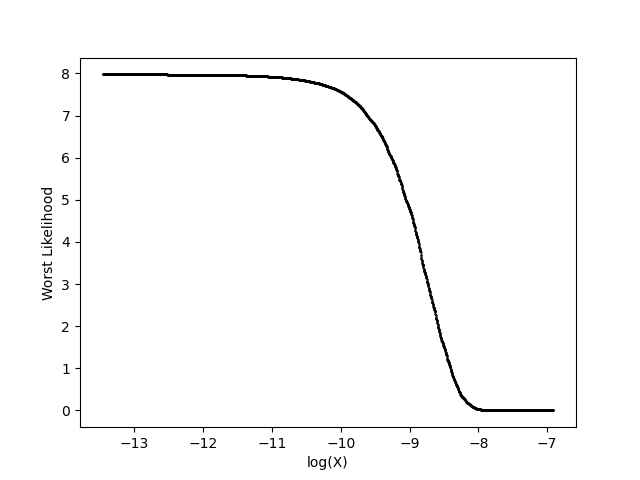
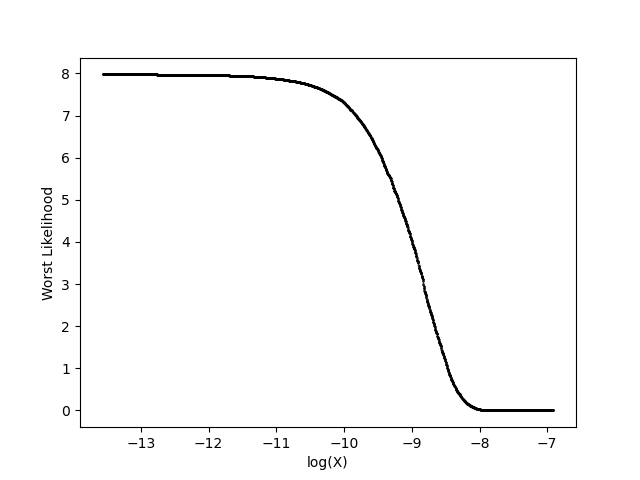
back to this morning

diff --git a/nested_sampling.py b/nested_sampling.py
@@ -84,9 +84,9 @@ def uniform_proposal(x, dim, logLmin, survivor, shrink):
     rejected = 0
     while True:
         new_line = np.zeros(dim+2, dtype=np.float64)
-        step = np.random.uniform(-1 + shrink, 1 - shrink)
-        new_line[:dim] = survivor + step
-        #new_line[:dim] = np.random.uniform(-10 + 10*shrink, 10 - 10*shrink, size=dim)
+        #step = np.random.uniform(-1 + shrink, 1 - shrink)
+        #new_line[:dim] = survivor + step
+        new_line[:dim] = np.random.uniform(-10 + 10*shrink, 10 - 10*shrink, size=dim)
         new_log_prior = log_prior(new_line[:dim], dim)
         new_line[dim] = new_log_prior[0]
         # acceptance MH rule
@@ -119,7 +119,7 @@ def normal_proposal(x, dim, logLmin, survivor, shrink):
     while True:
         counter += 1
         zeros = np.zeros(dim)
-        diag = np.diag(np.ones(dim)) - np.diag(np.zeros(dim))
+        diag = np.diag(np.ones(dim)) - np.diag(np.zeros(dim) + shrink)
         new_line = np.zeros(dim+2, dtype=np.float64)
         step = np.random.multivariate_normal(zeros, diag)
         new_line[:dim] = survivor + step
@@ -136,7 +136,7 @@ def normal_proposal(x, dim, logLmin, survivor, shrink):
             new_log_likelihood = new_line[dim+1]
             if new_log_likelihood < logLmin:
                 rejected += 1
-                survivor = new_line[:dim]
+                #survivor = new_line[:dim]
             if new_log_likelihood > logLmin:
                 accepted += 1
                 end = time.time()
@@ -285,4 +285,12 @@ if __name__ == "__main__":
                     \n Total time: {end-start:.2f} s
                     \n=================================''')
 
+# LA SITUAZIONE ATTUALE È:
+# - CON L'UNIFORME Z MI SCHIZZA AD ALTE DIMENSIONI
+# - CON LA GAUSSIANA MI VA A ZERO AD ALTE DIMENSIONI
+# SE L'UNIFORME LA CENTRO IN SURVIVOR, PURE MI VA A ZERO PER ALTE DIMENSIONI
+# SE AGGIORNO NEW_LINE[:DIM] = SURVIVOR QUANDO IL PUNTO VIENE RIFIUTATO, I TEMPI DIVENTANO
+# INFINITI
+
+# LA SITUAZIONE MIGLIORE PER ORA E' FAR RUNNARE IL TUTTO COME STA. ALMENO NON CI METTE UNA VITA.
 
